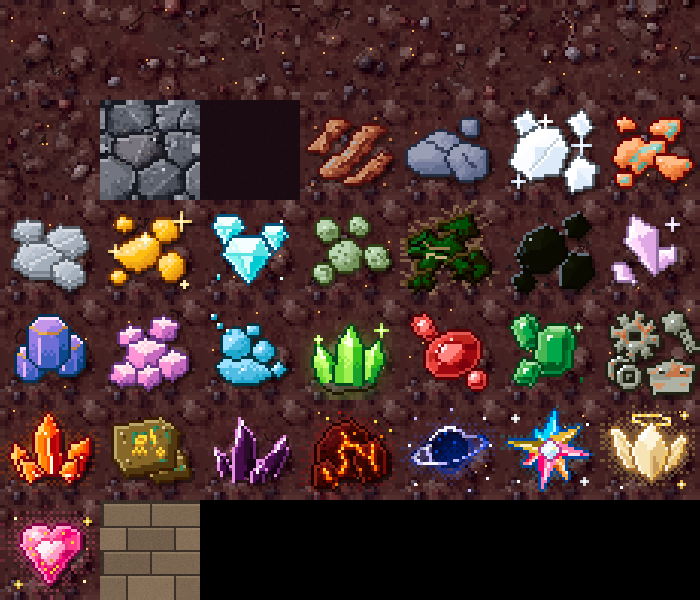
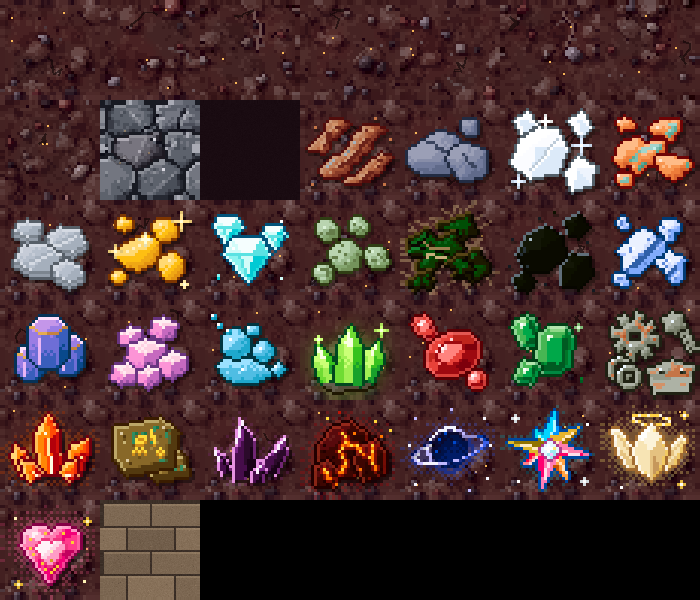
Платина — металл, а не кристалл: самородки вместо граней и искр
Тайл ore_platinum и значок item_platinum перерисованы в tools/ores_metals.py:
тяжёлые бугристые самородки холодного стально-голубого тона, полоса отражения
как на полированном металле, тёмные раковины, белый блик; без граней и
искр (это язык самоцветов). Цвет подобран так, чтобы check_ores держал
ΔE >= 20 до алюминия, свинца, ртути и серебра (средний Lab 67 5 -28).
В атласах поясов заменена только клетка платины. Неиспользуемый _shard удалён,
палитра (gen_art.py, PALETTE.md) обновлена.

Changed region(s): [[0.87, 0.36, 0.99, 0.48]]

diff --git a/tools/ores_metals.py b/tools/ores_metals.py
@@ -25,7 +25,7 @@ tools/sprite_kit.py и tools/gen_tiles_deep.py не правятся. Замен
 
 Цветовая карта (средний Lab тела залежи: L a b — то, на что настроены лесенки; check_ores требует ΔE >= 20 между
 соседями и >= 20 до грунта каждого пояса, поэтому цвета брифа сдвинуты там, где иначе не пройти):
-  серебро 88 -1 -4 | платина 79 20 -15 | алюминий 68 -1 -7 | ртуть 64 -17 -23 | свинец 50 4 -16 | титан 49 20 -38
+  серебро 88 -1 -4 | платина 67 5 -28 | алюминий 68 -1 -7 | ртуть 64 -17 -23 | свинец 50 4 -16 | титан 49 20 -38
   никель 60 -17 21 | железо 42 26 26 | медь 60 25 36 | золото 72 12 61 | металлолом 50 -1 11 | торф 18 -12 20
   уголь 7 -2 4 | уран 66 -41 47 | литий 65 35 -20
 Значок серебра, меди, торфа и угля нарисован контрастнее тайла (метрика меряет только тайл, значок — читаемость в 16-24 ед.);
@@ -352,7 +352,8 @@ class Pic:
 
 R_SILVER = ramp(262, 9, [40, 66, 81, 91, 96, 98, 100, 100], dh_dark=-14, dh_light=10, spec=(255, 255, 255))
 R_ALU = ramp(270, 8, [40, 55, 64, 71, 77, 82, 87, 93], dh_dark=-8, dh_light=0)
-R_PLAT = ramp(332, 42, [52, 66, 76, 84, 90, 94, 97, 100], dh_dark=-14, dh_light=6, spec=(255, 255, 255))
+R_PLAT = ramp(288, 48, [25, 41, 57, 70, 79, 88, 95, 100], dh_dark=-6, dh_light=-12, c_dark=0.9, c_light=0.8,
+              spec=(255, 255, 255))
 R_MERC = ramp(234, 44, [20, 33, 45, 56, 64, 72, 86, 100], dh_dark=-8, dh_light=4, spec=(255, 255, 255))
 R_LEAD = ramp(285, 20, [18, 29, 38, 45, 52, 59, 66, 76], dh_dark=-4, dh_light=0)
 R_TITAN = ramp(288, 62, [20, 31, 42, 51, 59, 69, 80, 92], dh_dark=-14, dh_light=40)
@@ -417,32 +418,6 @@ def _plate(p, cx, cy, r, rot, rp, thick=2, squash=0.62, crease=None):
         p.paint(m, rp[3])
         p.paint(shifted(m, 0, 1) & erode(face) & ~m, rp[6])
     return face
-
-
-def _shard(p, cx, cy, length, width, rot, rp, skew=0.34):
-    """Острый ромб-осколок из четырёх граней: свет с верхней левой."""
-    T = (0, -length / 2)
-    R = (width / 2, -length / 2 + skew * length)
-    B = (0, length / 2)
-    Lf = (-width / 2, -length / 2 + skew * length)
-    C = (0, -length / 2 + skew * length)
-
-    def tf(q):
-        return rot_pts([(cx + q[0], cy + q[1])], cx, cy, rot)[0]
-    t, r, b, l, c = (tf(q) for q in (T, R, B, Lf, C))
-    mask = poly([t, r, b, l])
-    p.ring(mask, rp[0])
-    p.paint(mask, rp[4])
-    p.paint(poly([t, l, c]), rp[6])
-    p.paint(poly([t, r, c]), rp[5])
-    p.paint(poly([l, c, b]), rp[4])
-    p.paint(poly([r, c, b]), rp[2])
-    # ребро-блик по верхнему левому краю и по центральной оси
-    p.line(t, l, rp[7], clip=mask)
-    p.line(l, b, rp[6], clip=mask)
-    p.line(t, c, rp[5], clip=mask)
-    p.px(int(round((t[0] + l[0]) / 2 + 0.4)), int(round((t[1] + l[1]) / 2 + 0.4)), rp[7])
-    return mask
 
 
 def _facet_poly(p, pts, rp, base=4.0, gain=3.2, lo=1, hi=6, edge=None, apex=(0.0, 0.0), tones=None):
@@ -515,13 +490,23 @@ def aluminium_tile():
     return p.sprite()
 
 
-def platinum_tile():
+def _plat_pic(chunks, seed):
+    """Самородная платина: тяжёлые бугристые зёрна стального тона, хромовая полоса отражения, тёмные раковины
+    и белый блик. Без граней и искр — это язык самоцветов."""
     p = Pic()
-    _shard(p, 20.5, 19.5, 11, 6, 0.62, R_PLAT)
-    _shard(p, 14, 14.5, 20, 9.5, -0.34, R_PLAT)
-    _shard(p, 7.5, 24, 8, 4.6, -0.95, R_PLAT)
-    p.sparkle(23, 7, 2, (255, 255, 255), (240, 225, 255))
-    return p.sprite()
+    k = dict(lo=-0.6, hi=1.0, spec_k=22, spec_thr=0.9, bounce=0.3, dither=0.3)
+    for i, (x, y, rx, ry, rot) in enumerate(chunks):
+        tex = (vnoise(seed + i, 2.0) - 0.5) * 0.20
+        # отражение «горизонта», как на полированном металле: светлая полоса, под ней резкая тёмная
+        st = ((x + y - 5.0, 2.0, 0.4), (x + y + 0.0, 2.0, -0.9), (x + y + 2.0, 1.0, -0.45)) if rx >= 4 else ()
+        m = _nugget(p, x, y, rx, ry, rot, R_PLAT, seed + i, 0.2, harm=5, pw=2.1, tex=tex, streaks=st, **k)
+        _speck(p, m, R_PLAT, seed + 20 + i, 1 + int(rx * 0.7), 2)
+    return p
+
+
+def platinum_tile():
+    return _plat_pic([(13.0, 16.5, 7.4, 6.2, -0.35), (23.5, 21.5, 4.6, 4.0, 0.4), (22.5, 9.0, 3.6, 3.0, 0.1),
+                      (6.5, 26.0, 2.4, 2.0, 0.3), (7.0, 7.0, 2.1, 1.8, 0.0)], 301).sprite()
 
 
 def _bead(p, cx, cy, r, rp):
@@ -1041,12 +1026,8 @@ def nickel_icon():
 
 
 def platinum_icon():
-    p = Pic()
-    _shard(p, 20.0, 19.0, 12, 7, 0.6, R_PLAT)
-    _shard(p, 13.0, 15.0, 24, 12, -0.32, R_PLAT)
-    p.sparkle(26, 6, 2, (255, 255, 255), (240, 225, 255))
-    p.sparkle(5, 24, 1, (255, 255, 255), (240, 225, 255))
-    return p.sprite(shadow=False)
+    return _plat_pic([(13.5, 16.5, 10.0, 8.4, -0.35), (25.0, 23.5, 5.4, 4.6, 0.4), (24.0, 8.5, 4.4, 3.8, 0.1),
+                      (5.0, 27.5, 2.4, 2.0, 0.3)], 311).sprite(shadow=False)
 
 
 def mercury_icon():

diff --git a/tools/gen_art.py b/tools/gen_art.py
@@ -120,7 +120,7 @@ PALETTE = [
     ("diamond_light",  "#FFFFFF", "Руда:Алмаз",    "белая искра алмаза"),
     ("nickel_base",     "#7FA868", "Руда:Никель",   "насыщенный оливково-зелёный металл"),
     ("nickel_light",     "#B8DC98", "Руда:Никель",   "блик никеля"),
-    ("platinum_base",     "#BFDCFA", "Руда:Платина",  "яркий бело-голубой драгоценный металл"),
+    ("platinum_base",     "#A9C3FF", "Руда:Платина",  "холодный стально-голубой металл (самородки, не грани)"),
     ("platinum_light",     "#FFFFFF", "Руда:Платина",  "ослепительный блик платины"),
     ("aluminium_base",      "#8B99A2", "Руда:Алюминий", "матовый нейтрально-серый металл, без блеска"),
     ("aluminium_light",      "#B8C4C8", "Руда:Алюминий", "приглушённый блик алюминия"),
@@ -497,7 +497,7 @@ ORES = [
     ("nickel", "Никель", "nickel_base", "nickel_light", "pebble_cluster"),
     ("peat", "Торф", "peat_base", "peat_light", "fiber"),
     ("coal", "Каменный уголь", "coal_base", "coal_light", "chunk_sparkle"),
-    ("platinum", "Платина", "platinum_base", "platinum_light", "facet"),
+    ("platinum", "Платина", "platinum_base", "platinum_light", "nugget"),
     ("aluminium", "Алюминий", "aluminium_base", "aluminium_light", "bar"),
     ("titanium", "Титан", "titanium_base", "titanium_light", "crystal_sparkle"),
     ("lithium", "Литий", "lithium_base", "lithium_light", "crystal_sparkle"),

diff --git a/art/PALETTE.md b/art/PALETTE.md
@@ -74,7 +74,7 @@ shoe             -> hair
 | `diamond_light` | `#FFFFFF` | Руда:Алмаз | белая искра алмаза |
 | `nickel_base` | `#7FA868` | Руда:Никель | насыщенный оливково-зелёный металл |
 | `nickel_light` | `#B8DC98` | Руда:Никель | блик никеля |
-| `platinum_base` | `#BFDCFA` | Руда:Платина | яркий бело-голубой драгоценный металл |
+| `platinum_base` | `#A9C3FF` | Руда:Платина | холодный стально-голубой металл (самородки, не грани) |
 | `platinum_light` | `#FFFFFF` | Руда:Платина | ослепительный блик платины |
 | `aluminium_base` | `#8B99A2` | Руда:Алюминий | матовый нейтрально-серый металл, без блеска |
 | `aluminium_light` | `#B8C4C8` | Руда:Алюминий | приглушённый блик алюминия |
